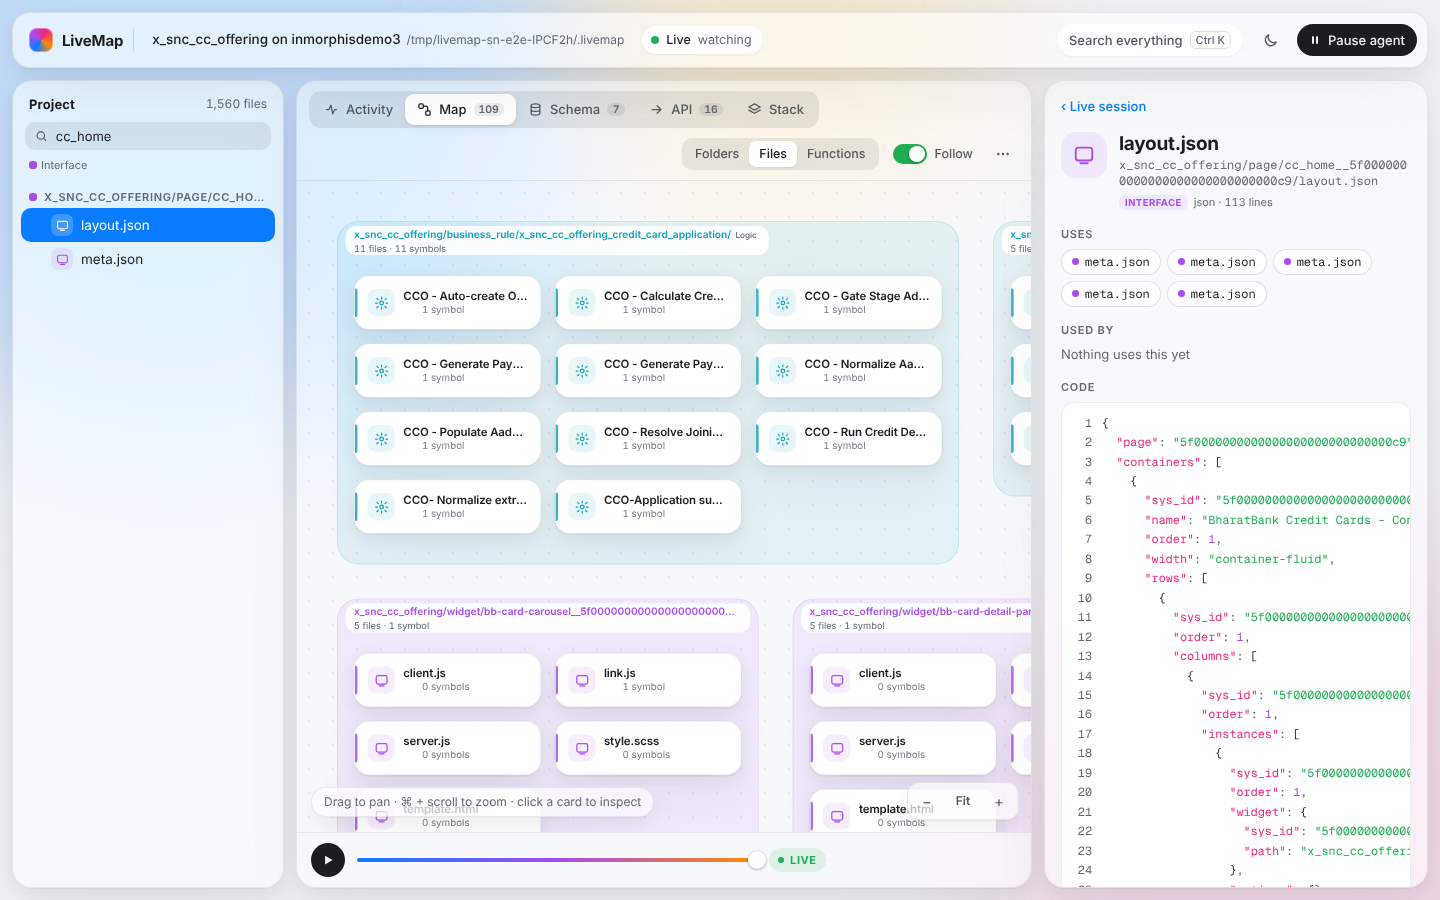
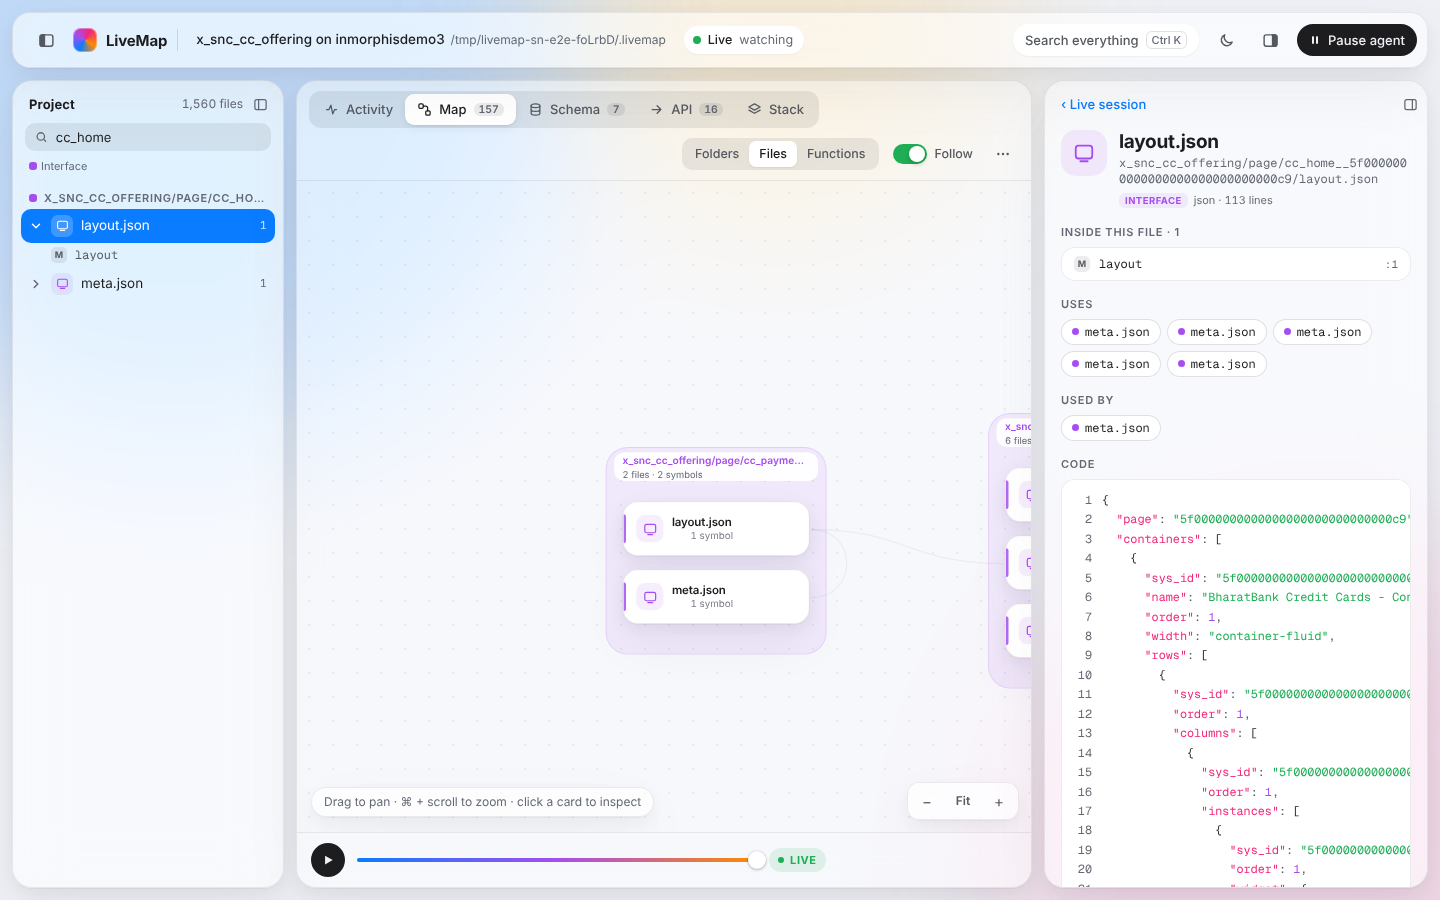
feat(servicenow): show the portal -> page -> widget -> script include -> table chain
- A page's meta.json links to its layout, and a widget's meta.json to
  its code files, so the chain from the portal to the scripts a widget
  runs has no gaps.
- Portal, page, layout, widget and table record files get one symbol
  each, so the Map draws them (it draws a JSON file only when it has
  symbols).
- The analyzer test follows the new fixture: the portal reaches
  cc_home, which places bb-card-carousel, whose server.js calls
  new x_snc_cc_offering.BBPortalFormatUtils() and names
  x_snc_cc_offering_card_catalogue in a string.
- The Map widget screenshot shows bb-card-carousel's server.js with
  the script include and the table it uses.

Claude-Session: https://claude.ai/code/session_01XbUThNPpsVS1SDhYaLSsHk

diff --git a/plugins/servicenow/analyzer.ts b/plugins/servicenow/analyzer.ts
@@ -7,8 +7,9 @@
  * - Rules: business rules, client scripts, UI policies and ACLs on a table.
  * - Links: `new X()` (also `new x_scope.X()`), `gs.include('X')`, `new GlideAjax('X')` to script
  *   includes; GlideRecord tables and string literals naming a scope table to their schema; a portal to
- *   its home page; a page to the widgets it places; a widget to embedded widgets; a rule, ACL or UI
- *   action to its table; a table to the table it extends.
+ *   its home page; a page's meta.json to its layout and the layout to the widgets it places; a
+ *   widget's meta.json to its code; a widget to embedded widgets; a rule, ACL or UI action to its
+ *   table; a table to the table it extends.
  */
 import fs from 'node:fs';
 import path from 'node:path';
@@ -91,6 +92,9 @@ export class MirrorIndex {
   }
 }
 
+/** The code files a widget folder can hold, next to its meta.json. */
+const WIDGET_CODE = ['template.html', 'client.js', 'server.js', 'link.js'];
+
 /** A table name's schema file in a scope's mirror. */
 const schemaPath = (ns: string, table: string): string => `${ns}/schema/${safeSegment(table)}.sntable.json`;
 
@@ -122,6 +126,14 @@ function scriptIncludeSymbols(text: string, header: Obj): CodeSymbol[] {
   });
   const parent = /Object\.extendsObject\(\s*([\w.]+)/.exec(text)?.[1];
   return [symbol(name, 'class', parent ? `class ${name} extends ${parent}` : `class ${name}`, start, lines.length, text, methods)];
+}
+
+/**
+ * The one symbol of a portal, page, layout, widget or table record file. These are JSON, and the Map draws a
+ * JSON file only when it has symbols, so this puts the records on the Map next to the scripts they use.
+ */
+function recordSymbol(name: string, kind: CodeSymbol['kind'], signature: string, text: string): CodeSymbol {
+  return symbol(name, kind, signature, 1, text.split('\n').length, text);
 }
 
 /** The one symbol of a business rule or client script: `table.when(condition)`. */
@@ -174,7 +186,7 @@ export function serviceNowAnalyzer(root: string): Analyzer & { index: MirrorInde
       const entity: Entity = { name: str(t.label)?.trim() || table, table, orm: 'servicenow', file: rel, line: 1, fields };
       // A dictionary-only file adds columns to a table defined elsewhere (another scope or the platform).
       if (t.defined_here === false) entity.partial = true;
-      return { entities: [entity] };
+      return { entities: [entity], symbols: [recordSymbol(table, 'struct', `table ${table}`, text)] };
     }
     if (kind === 'page' && base === 'meta.json') {
       const p = parse(text);
@@ -182,7 +194,21 @@ export function serviceNowAnalyzer(root: string): Analyzer & { index: MirrorInde
       if (!id) return {};
       const portals = Array.isArray(p.portals) ? (p.portals as unknown[]).filter((x): x is string => typeof x === 'string') : [];
       const routes: Route[] = (portals.length ? portals : ['sp']).map(s => ({ method: 'GET', path: `/${s}?id=${id}`, kind: 'page', framework: 'servicenow', line: 1 }));
-      return { routes };
+      return { routes, symbols: [recordSymbol(id, 'component', `page ${routes[0].path}`, text)] };
+    }
+    if (kind === 'page' && base === 'layout.json') {
+      const placed = links(rel, text, () => true).length;
+      return { symbols: [recordSymbol('layout', 'module', `layout (${placed} widget${placed === 1 ? '' : 's'})`, text)] };
+    }
+    if (kind === 'widget' && base === 'meta.json') {
+      const w = parse(text);
+      const id = str(w.id) ?? str(w.name);
+      return id ? { symbols: [recordSymbol(id, 'component', `widget ${str(w.name) ?? id}`, text)] } : {};
+    }
+    if (kind === 'portal' && base === 'meta.json') {
+      const p = parse(text);
+      const suffix = str(p.url_suffix) ?? str(p.title);
+      return suffix ? { symbols: [recordSymbol(suffix, 'component', `portal /${suffix}`, text)] } : {};
     }
     if (kind === 'workspace' && rel.includes('/sys_ux_app_route/')) {
       const r = parse(text);
@@ -232,6 +258,12 @@ export function serviceNowAnalyzer(root: string): Analyzer & { index: MirrorInde
       };
       walk(parse(text));
     }
+    // A widget's or page's meta.json uses the files of its own record, so portal -> page -> widget -> script
+    // include stays one chain on the Map.
+    if (kind === 'widget' && base === 'meta.json') {
+      for (const f of WIDGET_CODE) add(path.posix.join(path.posix.dirname(rel), f));
+    }
+    if (kind === 'page' && base === 'meta.json') add(path.posix.join(path.posix.dirname(rel), 'layout.json'));
     if (kind === 'schema') table(str(parse(text).extends));
     if (kind === 'acl') table((str(parse(text).name) ?? '').split('.')[0] || undefined);
     if (kind === 'ui_policy') table(str(parse(text).table));

diff --git a/tests/servicenow/analyzer.test.ts b/tests/servicenow/analyzer.test.ts
@@ -132,6 +132,26 @@ describe('ServiceNow analyzer on the BharatBank mirror', () => {
     for (const t of tables) if (model.get(`${NS}/schema/${t}.sntable.json`)) expect(links).toContain(`${NS}/schema/${t}.sntable.json`);
   });
 
+  it('links portal -> page -> widget -> script include, and the widget to the table a string names', () => {
+    const w = byClass('sp_widget').find(x => x.id === 'bb-card-carousel')!;
+    const meta = paths[w.sys_id];
+    const dir = path.posix.dirname(meta);
+    const si = paths[byClass('sys_script_include').find(s => s.api_name === 'x_snc_cc_offering.BBPortalFormatUtils')!.sys_id];
+    const catalogue = `${NS}/schema/x_snc_cc_offering_card_catalogue.sntable.json`;
+    // The portal's home page (cc_home) places the carousel.
+    const portal = Object.values(paths).find(p => p.includes('/portal/'))!;
+    const pageMeta = Object.values(paths).find(p => /\/page\/cc_home__\w+\/meta\.json$/.test(p))!;
+    const layout = `${path.posix.dirname(pageMeta)}/layout.json`;
+    expect(file(portal).imports.local).toContain(pageMeta);
+    expect(file(pageMeta).imports.local).toContain(layout);
+    expect(file(layout).imports.local).toContain(meta);
+    expect(file(meta).imports.local).toContain(`${dir}/server.js`);
+    // server.js calls new x_snc_cc_offering.BBPortalFormatUtils() and reads 'x_snc_cc_offering_card_catalogue'.
+    expect(file(`${dir}/server.js`).imports.local).toEqual(expect.arrayContaining([si, catalogue]));
+    const panel = path.posix.dirname(paths[byClass('sp_widget').find(x => x.id === 'bb-card-detail-panel')!.sys_id]);
+    expect(file(`${panel}/server.js`).imports.local).toEqual(expect.arrayContaining([si, catalogue]));
+  });
+
   it('links a business rule and an ACL to their table', () => {
     const br = byClass('sys_script').find(r => r.name === 'CCO - Auto-create Ops Tasks')!;
     expect(file(paths[br.sys_id]).imports.local).toContain(`${NS}/schema/${br.collection}.sntable.json`);

diff --git a/tests/e2e/servicenow.spec.ts b/tests/e2e/servicenow.spec.ts
@@ -87,17 +87,21 @@ test('livemap sn: mirrors the BharatBank scope and shows it in the Map and Schem
   await tab(page, 'map').click();
   await expect(tab(page, 'map')).toHaveAttribute('aria-selected', 'true');
   await page.locator('.react-flow__node').first().waitFor({ timeout: 20_000 });
-  // The home page's layout uses the widgets it places (Uses, in the inspector).
+  // The home page's layout is used by the page (portal -> page) and uses the widgets it places, the card
+  // carousel among them (Uses, in the inspector).
   const filter = page.getByPlaceholder('Filter files and functions');
   await filter.fill('cc_home');
   await page.getByRole('treeitem', { name: /layout\.json/ }).or(page.getByText('layout.json')).first().click();
   await expect(page.getByText('USES', { exact: false }).first()).toBeVisible();
+  await expect(page.getByText('Nothing uses this yet')).toHaveCount(0);
   await page.waitForTimeout(1500);
   await page.screenshot({ path: path.join(shots, 'servicenow-map-page.png'), animations: 'disabled' });
-  // The application form widget embeds two widgets ($sp.getWidget) and writes scope tables (GlideRecord).
-  await filter.fill('bb-application-form');
+  // The card carousel widget's server.js calls new x_snc_cc_offering.BBPortalFormatUtils() and reads the
+  // card catalogue table through a string; the widget's meta.json, placed by a page, uses it.
+  await filter.fill('bb-card-carousel');
   await page.getByText('server.js').first().click();
-  await expect(page.getByText(/sntable\.json/).first()).toBeVisible();
+  await expect(page.getByText(/BBPortalFormatUtils/).first()).toBeVisible();
+  await expect(page.getByText(/x_snc_cc_offering_card_catalogue/).first()).toBeVisible();
   await page.waitForTimeout(1500);
   await page.screenshot({ path: path.join(shots, 'servicenow-map-widget.png'), animations: 'disabled' });
   await filter.fill('');

diff --git a/docs/guide.md b/docs/guide.md
@@ -75,6 +75,8 @@ Before it pulls, LiveMap prints the instance, the nexus transport and the scope 
 
 The mirror is written to `.livemap/sn/<scope>/` in `dir`, one folder per kind of record: `portal`, `page`, `widget`, `schema`, `business_rule`, `client_script`, `script_include`, `ui_action`, `ui_policy`, `acl`, `flow`, `rest`, `workspace`, `ai_agent` and `other`. Each record's file or folder is named `<name>__<sys_id>`, so a record keeps its identity when it is renamed (its file moves). Names are made safe for Windows, and paths stay under 240 characters. Widget instances live in their page's `layout.json`, dictionary entries in their table's `.sntable.json`, and ACL roles in their ACL.
 
+On the map, a portal links to its home page, a page to its layout, a layout to the widgets it places, and a widget to its code. Scripts link to the script includes they call (`new Utils()`, `new x_scope.Utils()`, `gs.include`, `GlideAjax`) and to the scope tables they name, in a `GlideRecord` call or in any string that matches a mirrored table name. Rules, ACLs and UI actions link to their table.
+
 Credential records (`sys_auth_profile*`, `oauth_entity*`, `discovery_credentials`) are listed by name only, fields named like passwords, secrets, tokens or keys are never written, and system properties are read without their values. The `.livemap` folder is readable only by you. When `dir` is inside a git repository, LiveMap adds `.livemap/` to its `.gitignore`; elsewhere it leaves `.gitignore` alone.
 
 A second `livemap sn` on the same folder updates the mirror in place: unchanged files are not rewritten, and files of records that are gone or renamed are removed.
